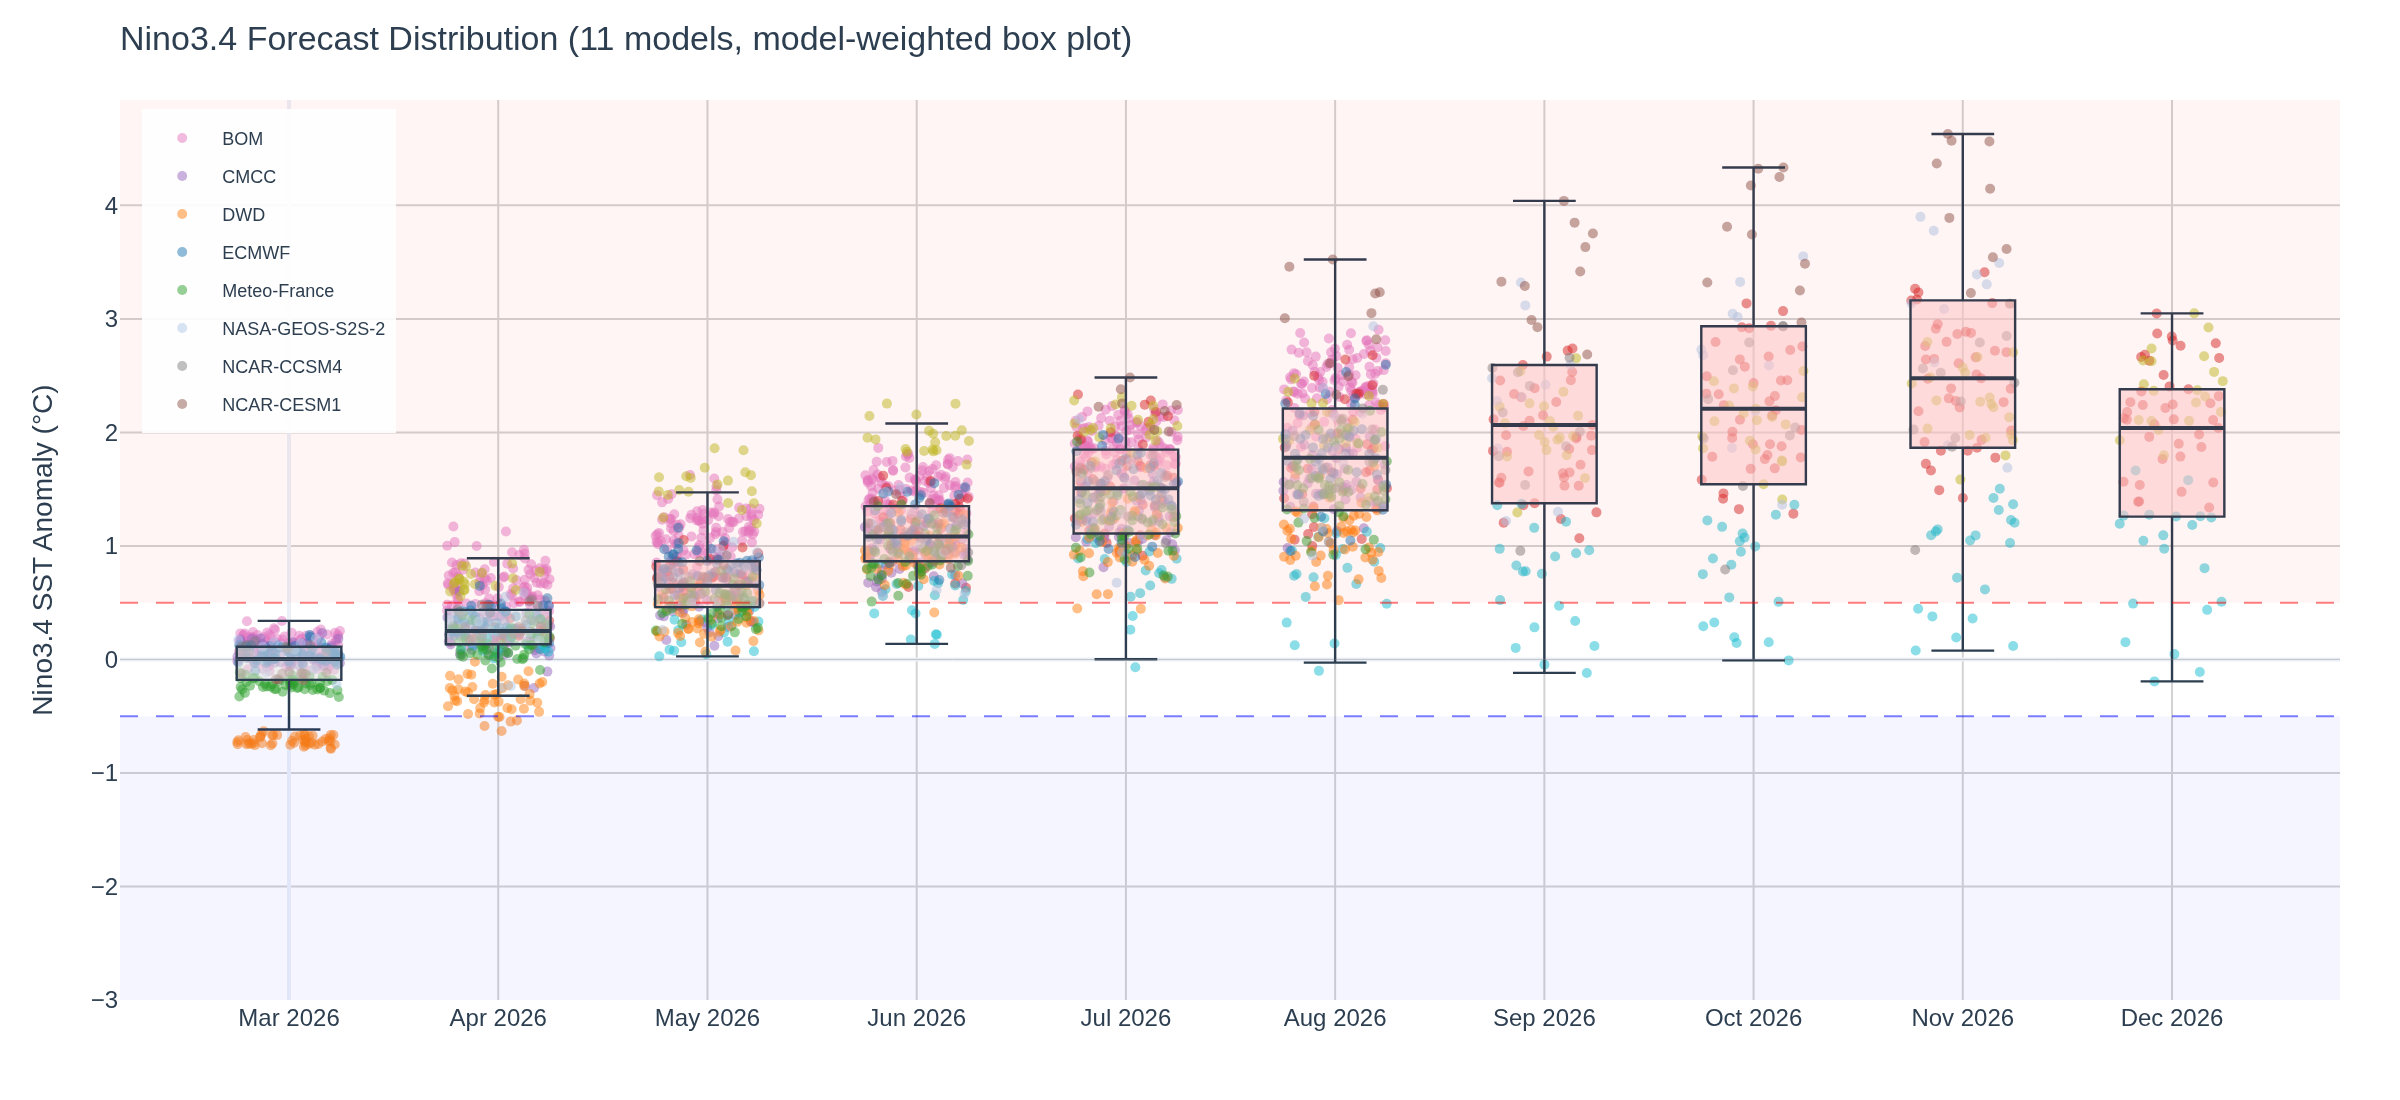
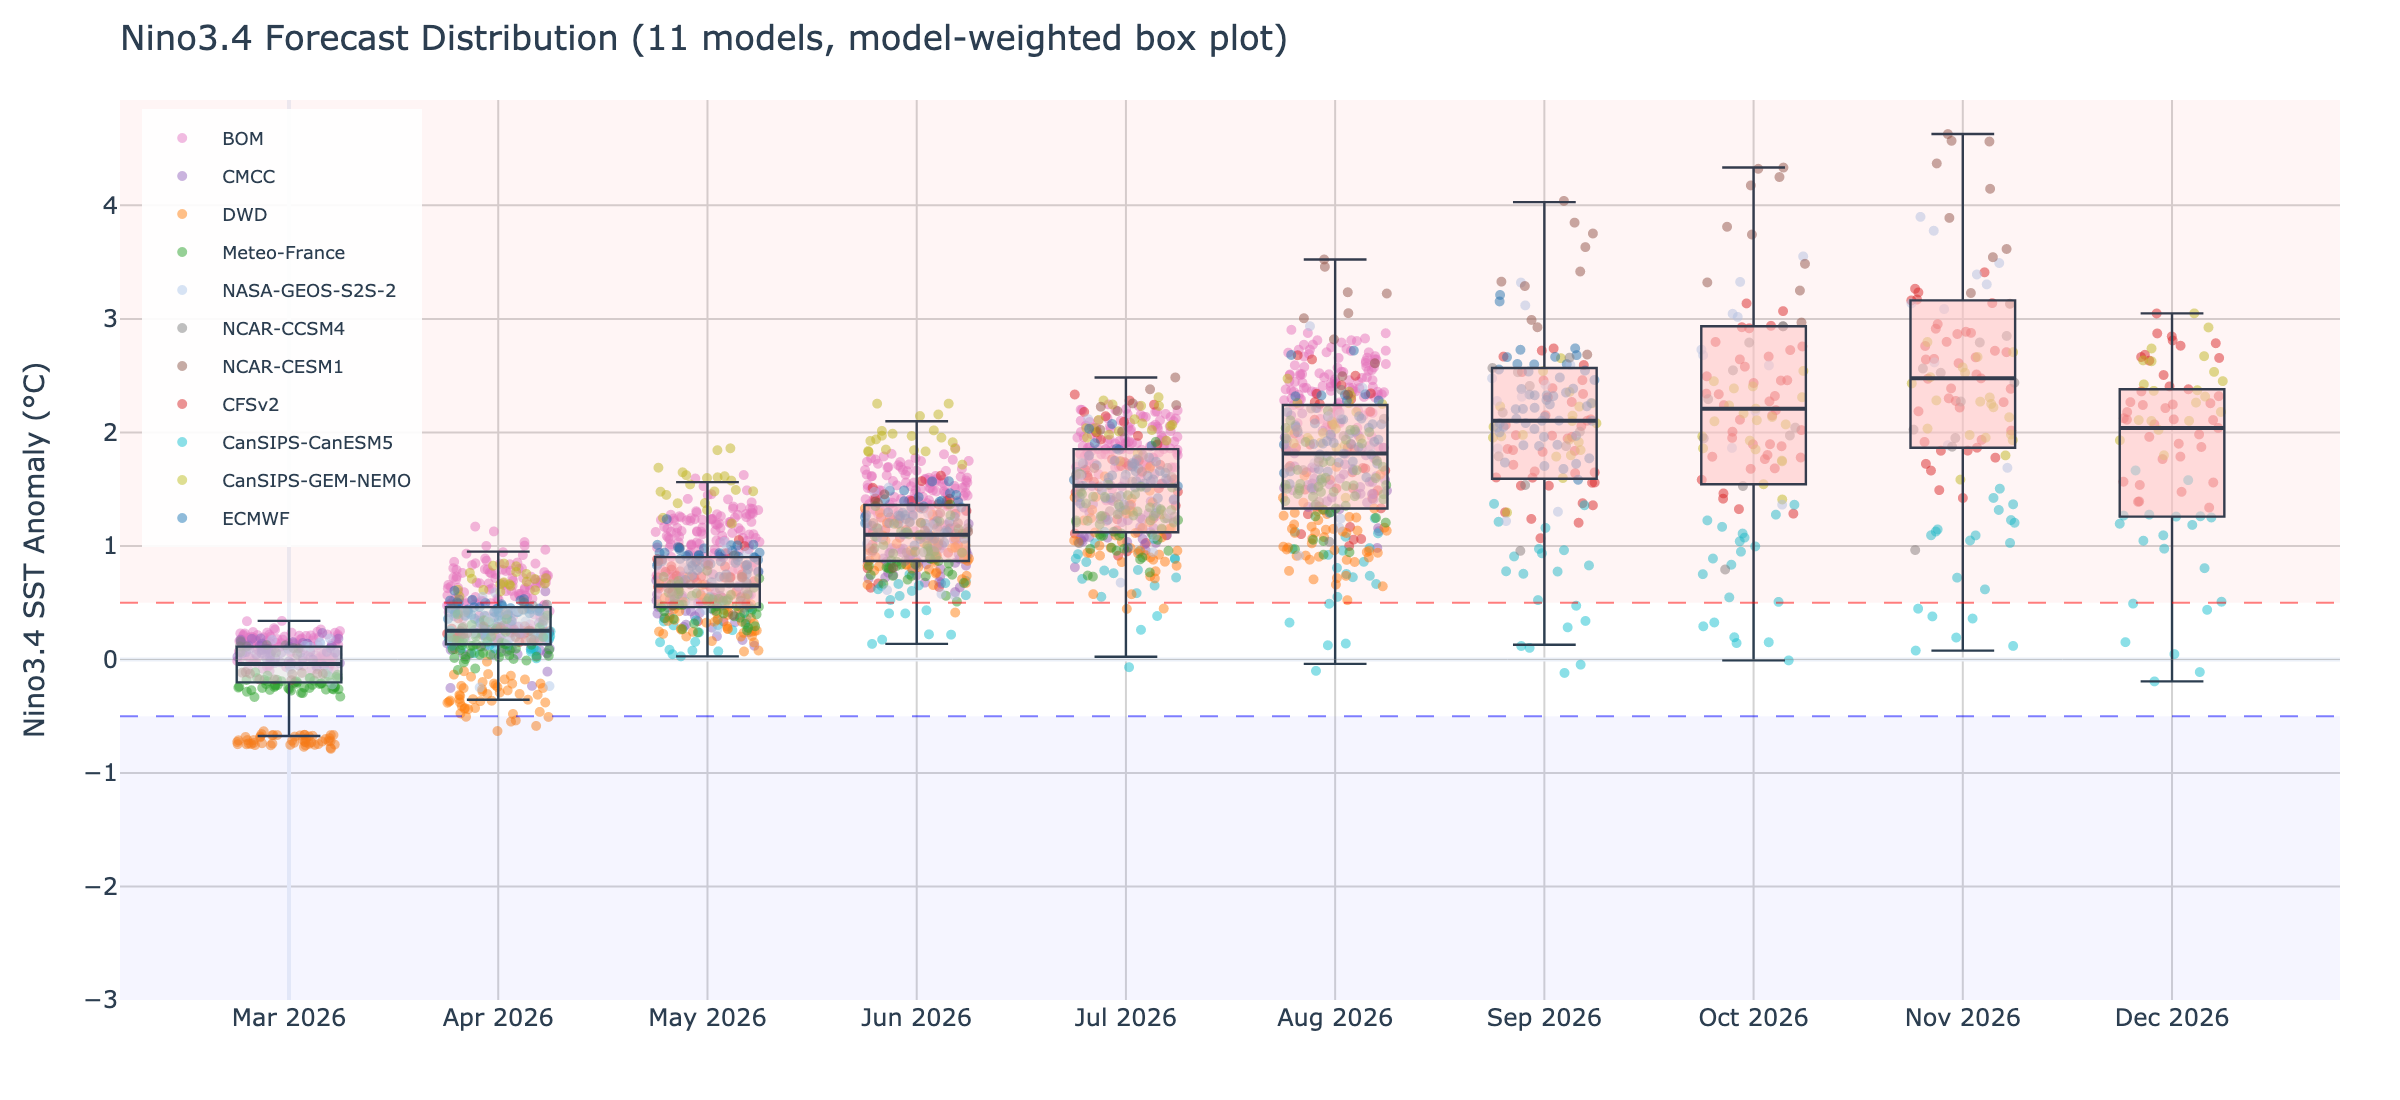
Fix missing legend entries in ENSO box distribution plot
Models only present from the 2nd target month onward (ECMWF, CFSv2,
CanSIPS-CanESM5, CanSIPS-GEM-NEMO) were missing from the legend because
showlegend was gated on i==0 (first month only). Now tracks which models
have been added and shows the legend entry on first appearance.

diff --git a/src/enso_plots.py b/src/enso_plots.py
@@ -456,6 +456,7 @@ def create_enso_box_distribution(forecast_df, dark_mode=False):
     np.random.seed(42)
 
     # -- Scatter dots per model --
+    legend_added = set()
     for i, tm in enumerate(target_months):
         for model in models:
             color = MEGA_COLORS.get(model, "#999999")
@@ -463,11 +464,13 @@ def create_enso_box_distribution(forecast_df, dark_mode=False):
             if len(mdf) == 0:
                 continue
             jitter = np.random.uniform(-0.25, 0.25, len(mdf))
+            show = model not in legend_added
+            legend_added.add(model)
             fig.add_trace(go.Scatter(
                 x=i + jitter, y=mdf["nino34_anom"],
                 mode="markers",
                 marker=dict(color=color, size=5, opacity=0.5),
-                showlegend=(i == 0),  # legend entry only on first month
+                showlegend=show,
                 name=model,
                 hovertemplate=f"{model}: %{{y:.2f}}\u00b0C<extra></extra>",
             ))